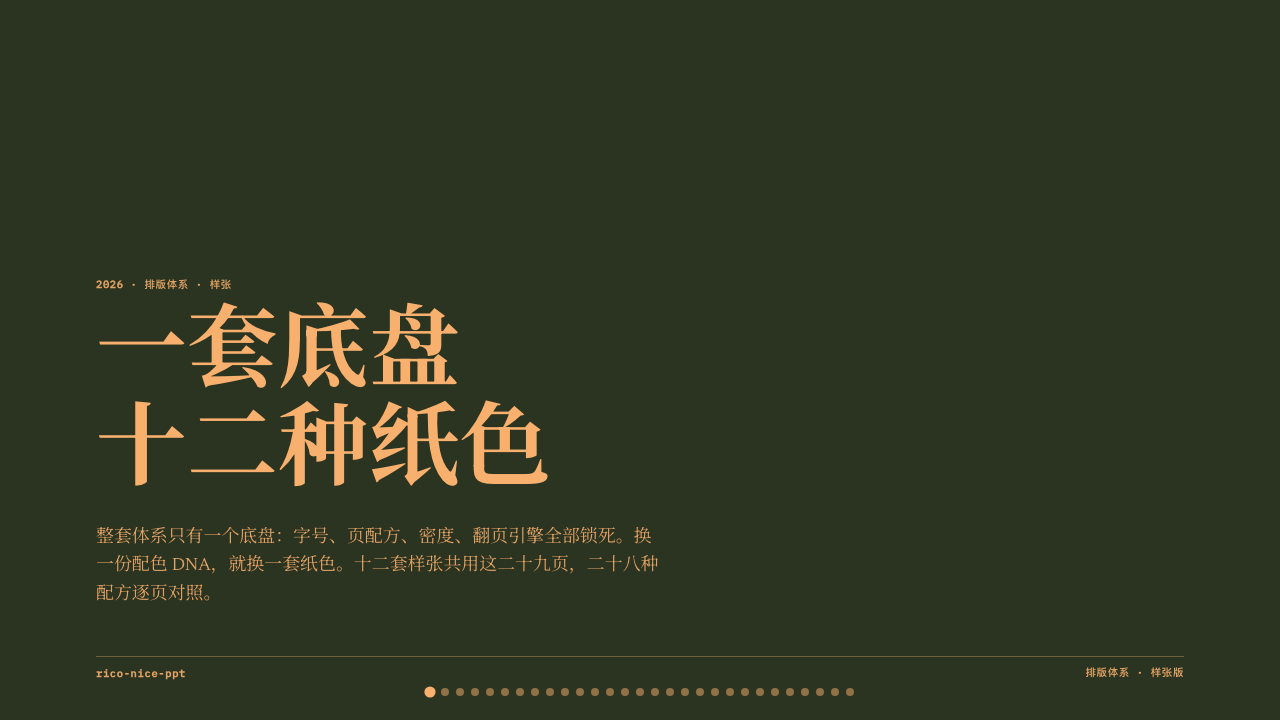
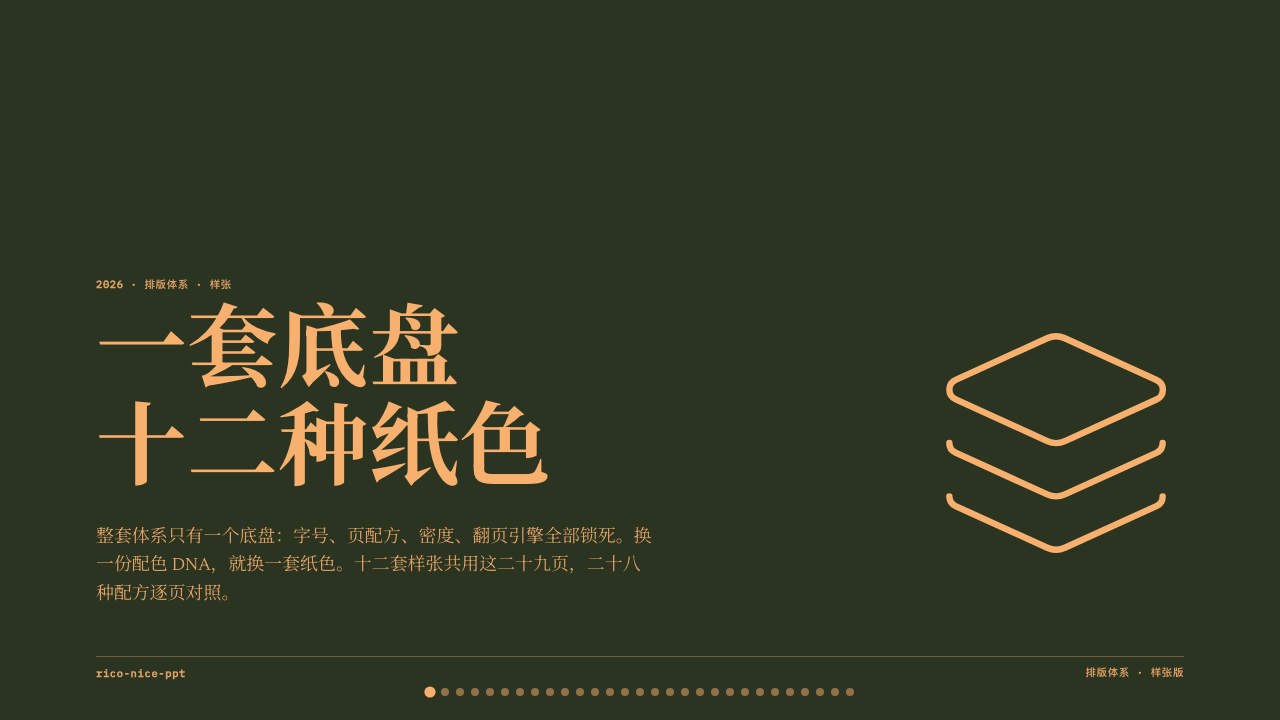
README 配图换图标版：封面大图标 + 四象限图标替代序号；risograph 图标线宽加档

diff --git a/chassis/deck.html b/chassis/deck.html
@@ -938,7 +938,7 @@
         margin-top: 0.2em;
       }
       .quad-num .ico--item {
-        font-size: 1.6vw;
+        font-size: 2.4vw; /* 卡片级图形，独占一行，比条目图标大一档 */
         color: var(--c-fg);
       }
       .trip-frame-note,
@@ -3107,24 +3107,25 @@
           </div>
           <div class="quad-wrap" data-anim="fade-up" data-delay="1">
             <span class="quad-y">数据密度 <b>↑</b></span>
+            <!-- 四格不是顺序：小图标替代 01–04 序号 -->
             <div class="quad-grid">
               <div class="quad-card">
-                <span class="quad-num">01</span>
+                <span class="quad-num"><i class="ico ico--item" data-icon="chart-column"></i></span>
                 <span class="quad-title">图表族</span>
                 <p class="quad-desc">数字多、故事弱：竖柱、横条、折线、斜率、区间、饼图，先挑量纲再挑构图。</p>
               </div>
               <div class="quad-card">
-                <span class="quad-num">02</span>
+                <span class="quad-num"><i class="ico ico--item" data-icon="gavel"></i></span>
                 <span class="quad-title">判断族</span>
                 <p class="quad-desc">数字硬、话也重：stats 大数、versus 对决、scorecard 评分，一页一个结论，讲透为止。</p>
               </div>
               <div class="quad-card">
-                <span class="quad-num">03</span>
+                <span class="quad-num"><i class="ico ico--item" data-icon="book-open"></i></span>
                 <span class="quad-title">阅读族</span>
                 <p class="quad-desc">字多数字少：list、editorial、dense、split，密度靠真材料不靠抻间距。</p>
               </div>
               <div class="quad-card">
-                <span class="quad-num">04</span>
+                <span class="quad-num"><i class="ico ico--item" data-icon="quote"></i></span>
                 <span class="quad-title">叙事族</span>
                 <p class="quad-desc">话最重的页：cover、statement、quote、end，大字压场，一句顶一页。</p>
               </div>

diff --git a/SKILL.md b/SKILL.md
@@ -125,7 +125,9 @@ python3 scripts/check_contrast.py
 | 槽位 | 放哪 | 尺寸 / 线宽 | 颜色 |
 |---|---|---|---|
 | `ico--mark` 大图标 | cover / chapter / end 右侧，每页最多一个 | 20vw / 0.6 | 标题同色（fg），不是水印 |
-| `ico--item` 小图标 | 并列条目前：`bullet-list.has-ico` 每条、`quad-num` 内替代序号、`trip-frame-note` 行首、`compare-label` 行首 | 1.2vw（bullet 跟字号，栏头 / 小注 1.25em）/ 1.75 | 继承正文 / 副标题 / 小注的颜色 |
+| `ico--item` 小图标 | 并列条目前：`bullet-list.has-ico` 每条、`quad-num` 内替代序号、`trip-frame-note` 行首、`compare-label` 行首 | 1.2vw（bullet 跟字号，栏头 / 小注 1.25em，quadrant 卡片级 2.4vw）/ 1.75 | 继承正文 / 副标题 / 小注的颜色 |
+
+risograph 一套字重偏粗，图标线宽在它的 DNA `extra_css` 里加了一档（mark 1 / quadrant 2.25），其余 11 套不动。
 
 落点写法：cover 的大图标放进 `.cover-body` 第一个子元素（自动进右列，与「小标 + 标题 + 导语」块垂直居中）；chapter / end 放 section 直接子元素（页面居中，与文字块同一水平线）。bullet 用 `<ul class="bullet-list has-ico">`，每条 `<li><i class="ico ico--item" data-icon="…"></i>文字</li>`，破折号自动去掉。quadrant 是 `<span class="quad-num"><i class="ico ico--item" data-icon="…"></i></span>`，四格不是顺序，图标替代 01–04。
 
